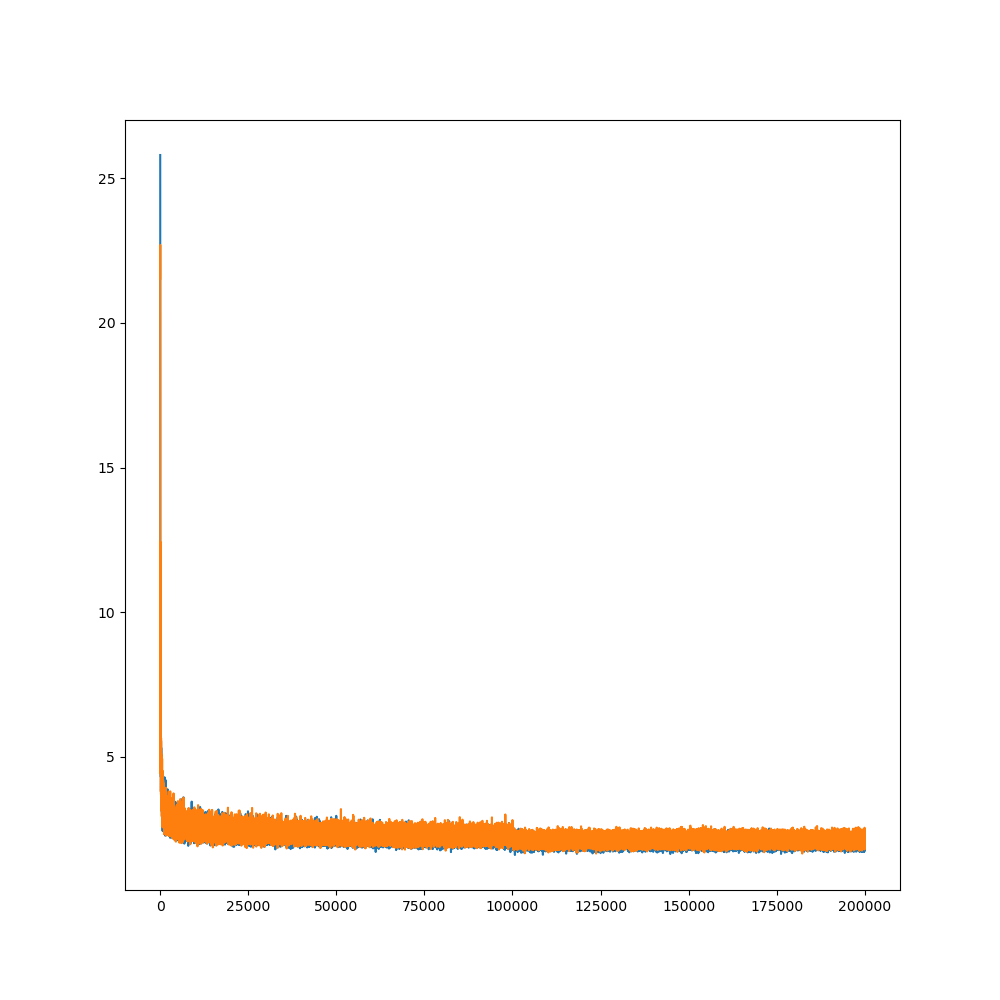
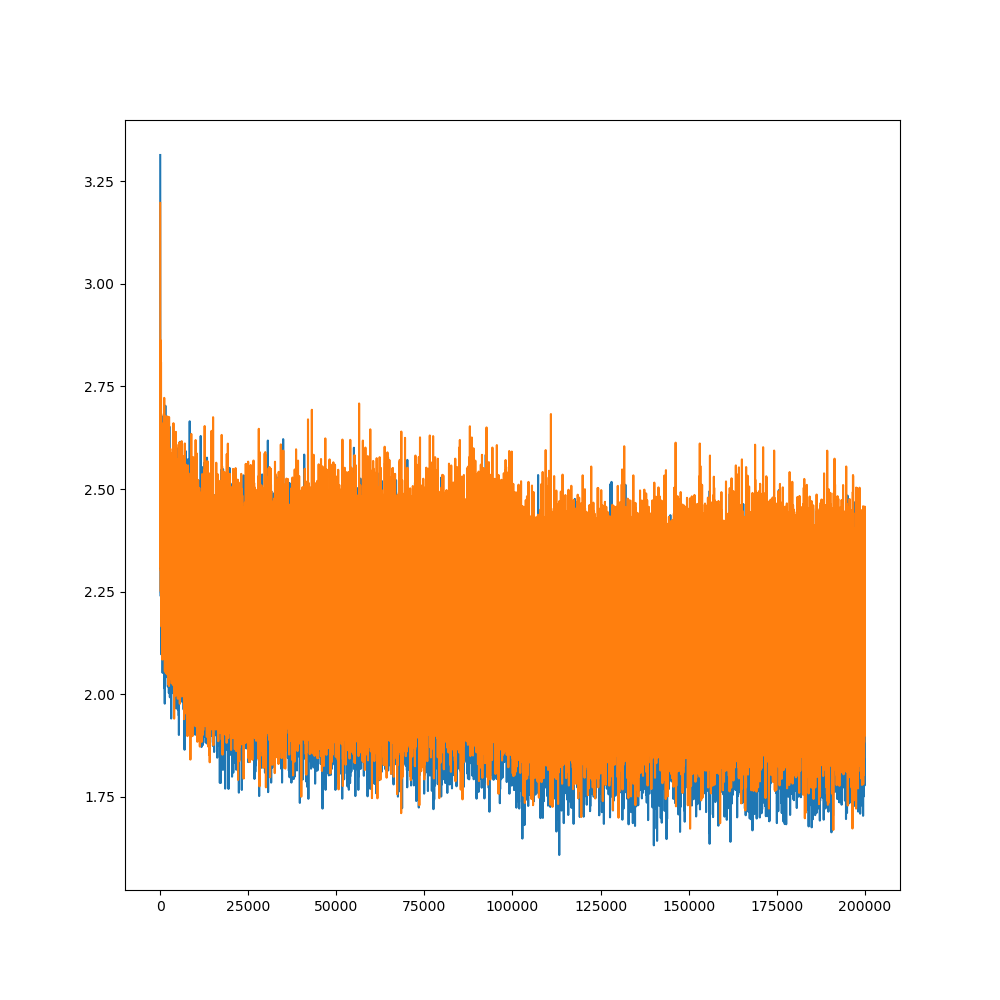
Initialize the parameters correctly
This commit correctly initializes all the parameters for our model by
making close to zero. Hence, the logits tends to come out as the same
value which implies equal probabilities on the first run.

diff --git a/multilayer_perceptron.py b/multilayer_perceptron.py
@@ -3,7 +3,7 @@ This is an implementation of A Neural Probabilistic Language Model by Bengio et 
 It is a code along with Andrej Karpathy's zero to hero neural network series.
 https://www.youtube.com/watch?v=TCH_1BHY58I&t=236s
 """
-# pylint: disable=redefined-outer-name
+# pylint: disable=redefined-outer-name, invalid-name
 import random
 from typing import Tuple, List
 import matplotlib.pyplot as plt
@@ -123,7 +123,7 @@ def train(
             logits = hidden_layer_output @ parameters[3] + parameters[4]
             val_loss = F.cross_entropy(logits, val_set[1][batch_index])
             losses["validation loss"].append(val_loss.item())
-        if epoch % 1000 == 0:
+        if epoch % 1000 == 0 or epoch == 1:
             print(
                 f"Epoch {epoch} Training Loss: {train_loss}, Validation Loss: {val_loss}"
             )
@@ -161,29 +161,45 @@ labels = torch.tensor(labels, device=DEVICE)
 HIDDEN_LAYER = 200
 EMBEDDING_LENGTH = 10
 generator = torch.Generator(device=DEVICE).manual_seed(10)
-embedding_layer = torch.randn(
+embedding_layer = torch.normal(
+    0,
+    0.1,
     (len(unique_characters), EMBEDDING_LENGTH),
     device=DEVICE,
     requires_grad=True,
     generator=generator,
 )
-weights_1 = torch.randn(
+weights_1 = torch.normal(
+    0,
+    0.1,
     (BLOCK_SIZE * EMBEDDING_LENGTH, HIDDEN_LAYER),
     device=DEVICE,
     requires_grad=True,
     generator=generator,
 )
-bias_1 = torch.randn(
-    HIDDEN_LAYER, device=DEVICE, requires_grad=True, generator=generator
+bias_1 = torch.normal(
+    0,
+    0.1,
+    (1,HIDDEN_LAYER),
+    device=DEVICE,
+    requires_grad=True,
+    generator=generator
 )
-weights_2 = torch.randn(
+weights_2 = torch.normal(
+    0,
+    0.1,
     (HIDDEN_LAYER, len(unique_characters)),
     device=DEVICE,
     requires_grad=True,
     generator=generator,
 )
-bias_2 = torch.randn(
-    len(unique_characters), device=DEVICE, requires_grad=True, generator=generator
+bias_2 = torch.normal(
+    0,
+    0.1,
+    (1,len(unique_characters)),
+    device=DEVICE,
+    requires_grad=True,
+    generator=generator
 )
 parameters = [embedding_layer, weights_1, bias_1, weights_2, bias_2]
 
@@ -216,36 +232,52 @@ LEARNING_RATE = 10**best_lr_exp
 print(f"\nBest learning rate is {LEARNING_RATE}\n")
 
 generator = torch.Generator(device=DEVICE).manual_seed(10)
-embedding_layer = torch.randn(
+embedding_layer = torch.normal(
+    0,
+    0.1,
     (len(unique_characters), EMBEDDING_LENGTH),
     device=DEVICE,
     requires_grad=True,
     generator=generator,
 )
-weights_1 = torch.randn(
+weights_1 = torch.normal(
+    0,
+    0.1,
     (BLOCK_SIZE * EMBEDDING_LENGTH, HIDDEN_LAYER),
     device=DEVICE,
     requires_grad=True,
     generator=generator,
 )
-bias_1 = torch.randn(
-    HIDDEN_LAYER, device=DEVICE, requires_grad=True, generator=generator
+bias_1 = torch.normal(
+    0,
+    0.1,
+    (1,HIDDEN_LAYER),
+    device=DEVICE,
+    requires_grad=True,
+    generator=generator
 )
-weights_2 = torch.randn(
+weights_2 = torch.normal(
+    0,
+    0.1,
     (HIDDEN_LAYER, len(unique_characters)),
     device=DEVICE,
     requires_grad=True,
     generator=generator,
 )
-bias_2 = torch.randn(
-    len(unique_characters), device=DEVICE, requires_grad=True, generator=generator
+bias_2 = torch.normal(
+    0,
+    0.1,
+    (1,len(unique_characters)),
+    device=DEVICE,
+    requires_grad=True,
+    generator=generator
 )
 parameters = [embedding_layer, weights_1, bias_1, weights_2, bias_2]
 EPOCHS = 200000
 
 wandb.init(
     project="ml-gallery",
-    name="mlp_classifier",
+    name="mlp_classifier-uniform",
     config={
         "BLOCK_SIZE": BLOCK_SIZE,
         "HIDDEN_LAYER": HIDDEN_LAYER,
